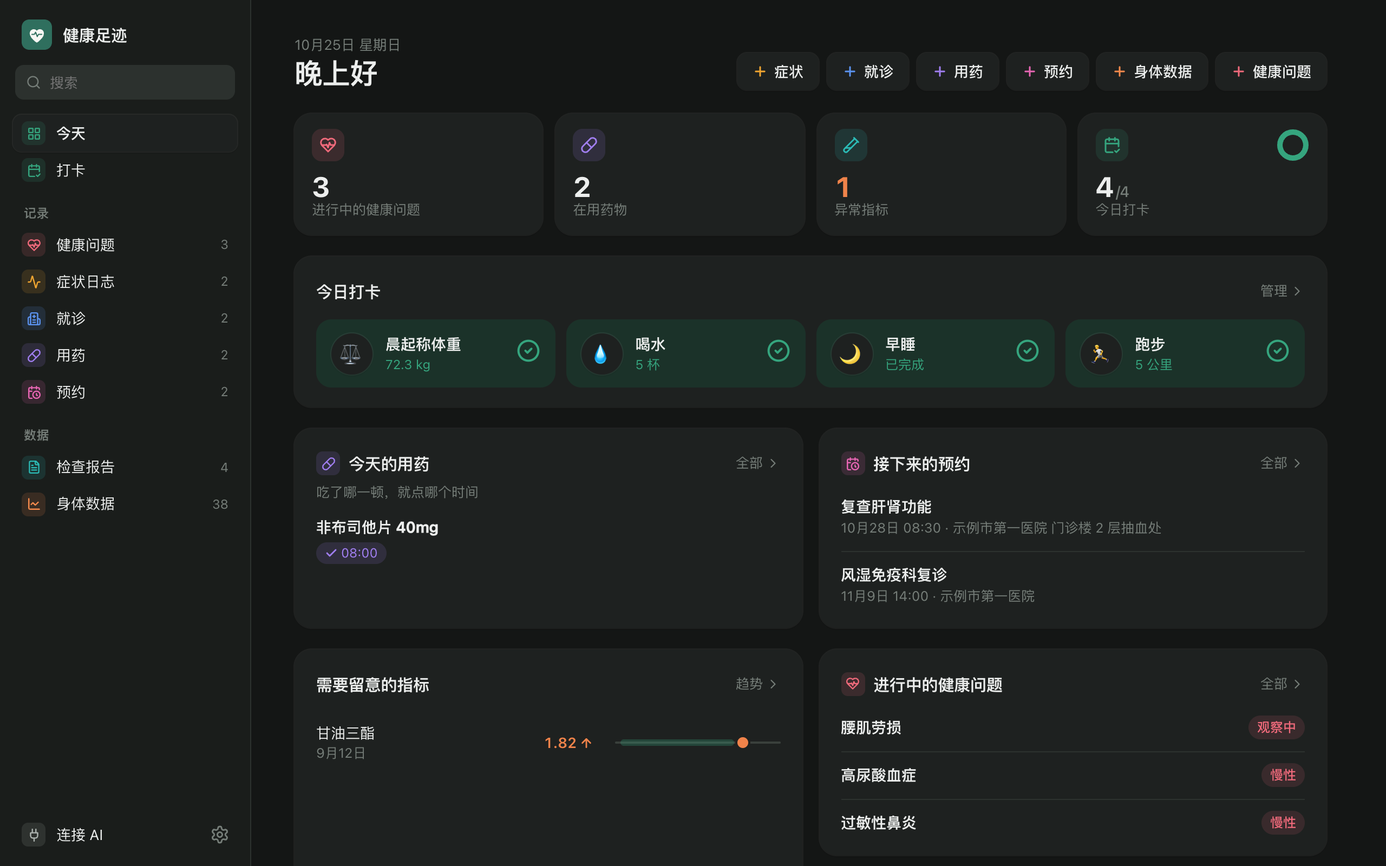
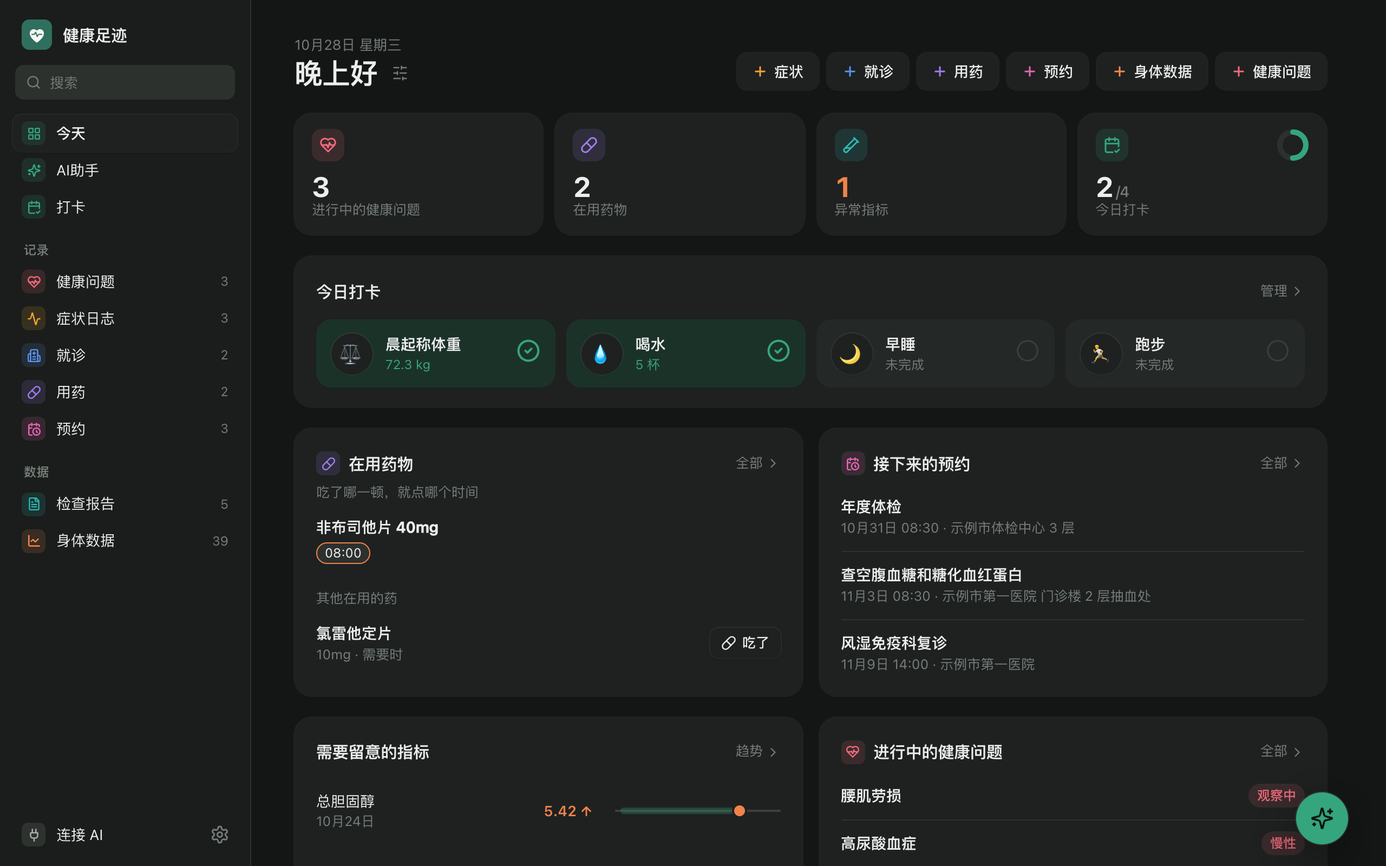
README：顶部放介绍视频，写清 App 里的 AI助手，截图换成现在的界面
- 顶部的截图换成约 100 秒的介绍视频（GitHub 上传的 user-attachments，中文旁白，虚构数据），今天页的截图挪到「记录」下面
- 副标题、「适合你吗」、「快速开始」的示例加上 App 里的 AI助手：拍照录化验单、说一句话就记好、问该查什么并记成预约；「数据从不离开你的 Mac」改成「数据存在你自己的 Mac 上」（接了 AI 之后原话不准确）
- 「接入 AI」先说两种方式，再分「AI助手」和「通过 MCP 接入」两节；AI助手原来的一大段拆成「能做什么」「哪些会直接写入」（表格）「接口、隐私和日志」，原有的规则都保留
- 工作方式图加上 AI助手 → 你填的接口
- 截图按现在的界面重拍（今天页、指标趋势、身体数据、打卡，浅色和深色），新加 AI助手的截图；都是临时数据目录里的虚构数据，AI 的回答来自本机的假接口
- 中英文两份同步

diff --git a/README.en.md b/README.en.md
@@ -9,7 +9,7 @@
 ### Your health records, kept on your own computer.
 
 **Medical history, lab reports, medications, body metrics and daily check-ins, all in one place.**<br>
-Let Claude or Codex enter and analyze them for you. Your data never leaves your Mac.
+Snap a photo or say a sentence and AI records it; Claude or Codex can help analyze too. Your data stays on your own Mac.
 
 [![Release](https://img.shields.io/github/v/release/chunbin1/health-trail?include_prereleases&label=release&color=111111)](https://github.com/chunbin1/health-trail/releases) [![CI](https://img.shields.io/github/actions/workflow/status/chunbin1/health-trail/ci.yml?label=CI&color=111111)](https://github.com/chunbin1/health-trail/actions/workflows/ci.yml) [![License](https://img.shields.io/badge/license-MIT-111111)](LICENSE)<br>
 ![macOS](https://img.shields.io/badge/macOS_13+-000000?logo=apple&logoColor=white) ![MCP](https://img.shields.io/badge/MCP-15_tools-111111) ![SQLite](https://img.shields.io/badge/SQLite-local-003B57?logo=sqlite&logoColor=white)
@@ -18,12 +18,9 @@ Let Claude or Codex enter and analyze them for you. Your data never leaves your 
 
 <br>
 
-<picture>
-  <source media="(prefers-color-scheme: dark)" srcset="docs/img/overview-dark.png">
-  <img src="docs/img/overview-light.png" width="900" alt="The Today page: active health issues, today's medications, today's check-ins, upcoming appointments and results to watch">
-</picture>
+https://github.com/user-attachments/assets/7d57d18b-8832-4bc0-9797-f5483d23beaa
 
-<sub>The screenshots show the Chinese interface with made-up sample data. The app can also be switched to English.</sub>
+<sub>A 100-second introduction, narrated in Chinese. The video and screenshots show the Chinese interface with made-up sample data; the app can also be switched to English.</sub>
 
 </div>
 
@@ -33,8 +30,9 @@ Let Claude or Codex enter and analyze them for you. Your data never leaves your 
 
 Lab reports sit in your photo library, medical records in a hospital app, you rely on memory for when you took your pills, and at a follow-up you can't recall what your last result was. Health Trail puts all of this in a local database and hands it to an AI you trust to help keep it in order:
 
-- **Snap a photo to log it**: send a screenshot of a lab report to Claude and it enters every item, flags what's high or low, and saves the original image as an attachment.
-- **Ask about trends any time**: "How has my uric acid changed over the last two years?" "Has my CRP come down?" The AI answers from your data, not from guesses.
+- **Snap a photo to log it**: send a photo of a lab report to AI assistant in the app (or to Claude) and it enters every item, flags what's high or low, and saves the original image as an attachment.
+- **Say it and it's recorded**: "Fasting blood sugar 6.4 this morning, a bit dizzy" becomes a blood sugar reading and a symptom. Type or speak; speech is recognized on your Mac.
+- **Ask, and let it arrange things**: "How has my uric acid changed over the last two years?" "My blood sugar is a bit high; which tests should I get?" The AI looks at your records before answering, not guessing; say the word and it turns the follow-up into an appointment.
 - **Reminders on time**: for medications, check-ins and follow-ups, your Mac shows a notification, and they can sync to the Calendar and Reminders apps on your iPhone.
 - **Data stays on your Mac**: one SQLite file plus an attachments folder, backed up to a place you choose.
 
@@ -53,14 +51,21 @@ For now it supports macOS 13 and later only, on both Apple silicon and Intel.
 **3 · Start using it**: say to the AI
 
 ```text
-Enter this lab report            (attach the screenshot)
+Enter this lab report            (attach a photo or screenshot)
+Fasting blood sugar 6.4 this morning, a bit dizzy
 I took my medication this morning
+Book a blood sugar test at the hospital for 8:30 on November 3
 Help me list the questions to ask the doctor at this follow-up
 ```
 
 ## What it does
 
 ### Records
+
+<picture>
+  <source media="(prefers-color-scheme: dark)" srcset="docs/img/overview-dark.png">
+  <img src="docs/img/overview-light.png" width="900" alt="The Today page: active health issues, medications in use, today's check-ins, upcoming appointments and results to watch">
+</picture>
 
 | Type | What it records |
 | :-- | :-- |
@@ -80,7 +85,7 @@ Reports, prescriptions and scans can be stored as attachments under the matching
 <td width="50%">
 <picture>
   <source media="(prefers-color-scheme: dark)" srcset="docs/img/trend-dark.png">
-  <img src="docs/img/trend-light.png" alt="Result trends: four uric acid results, the reference range and the trend line">
+  <img src="docs/img/trend-light.png" alt="Result trends: five uric acid results, the reference range and the trend line">
 </picture>
 </td>
 <td width="50%">
@@ -117,6 +122,49 @@ Pick a folder (iCloud Drive or an external drive is a good choice). Each backup 
 The interface can switch between Chinese and English; your data is always stored exactly as entered.
 
 ## Connect your AI
+
+There are two ways, both reading and writing the same records, and you can use both:
+
+- **[AI assistant](#ai-assistant) in the app**: uses an OpenAI-compatible service you fill in; chat, send photos or speak right in the window.
+- **[Through MCP](#through-mcp)**: lets Claude, Codex or another AI you already use read and write your records.
+
+### AI assistant
+
+<picture>
+  <source media="(prefers-color-scheme: dark)" srcset="docs/img/assistant-dark.png">
+  <img src="docs/img/assistant-light.png" width="900" alt="AI assistant: it looks up the blood sugar and symptoms on file before saying which tests to get, then turns the time you give into an appointment card">
+</picture>
+
+AI assistant in the sidebar lets you talk to an AI right in the app (Today has an entry too; once the service is filled in, a floating button at the lower right opens the same chat from any page). It uses the service you configure and looks things up in your records with the same tools as MCP.
+
+**What it can do**
+
+- **Answer about anything on file**: every result of a lab test over the years, say; it looks first, then answers.
+- **Record what you type, say or photograph**: a photo of a lab report or prescription, or a sentence like "fasting blood sugar 6.4 this morning, a bit dizzy", becomes records: lab reports, body metrics, symptoms, medications, check-ins and so on.
+- **Change records on file**: adding a reminder time to a medicine, say, becomes a Change card that shows the field before and after. Deleting a record or undoing a check-in is still done on the record itself.
+- **Arrange tests**: a suggested test or repeat test goes in the answer first, saying a doctor needs to confirm it; only when you ask it to pick the time does it become an appointment card, with a note that the time is the assistant's suggestion and nothing is booked at the hospital yet.
+- **Talk about your health**: it gives a diagnosis from the symptoms, lab results and reports on file and can suggest medicines to consider; every such answer says the result is for reference only and that you need to go to a hospital for a doctor to confirm it.
+
+**What gets written straight away**
+
+| Card | How it's saved |
+| :-- | :-- |
+| New records: symptoms, body metrics, lab reports, check-ins, appointments and so on | Automatic saving is on by default and writes them as soon as the reply arrives; you can switch to saving by hand from the left of the message box. An entry with a problem is not written automatically; you fix it and save it yourself |
+| A health issue it diagnoses (status Monitoring; the notes name the records it used and that a doctor must confirm it) | Not saved automatically; you read it and save it yourself. It only comes up when you ask what might be wrong, and a name already on file is not written again |
+| A medicine it suggests (status Planned; the notes say a doctor must confirm it and that it has not been started) | Not saved automatically; you save it yourself. A name already on file is not written again |
+| A change to a record already on file | Not saved automatically; nothing changes until you save it |
+
+**Service, privacy and the log**
+
+- The service must speak OpenAI-style Chat Completions and support tool calls (function calling); pictures also need a model that can see them. You set the address, key and model name at the top of Connect AI, or in AI assistant or in Settings. The key stays on this computer and is not included in backups.
+- What goes to the service: what you type or say and the pictures, the names of existing health issues, medications and check-ins, and whatever records it reads to answer. Speech uses the Mac's own dictation, so the audio is not uploaded.
+- Each conversation is kept in `chats.json` in the data folder; History in the assistant opens an earlier one.
+- Each answer adds an entry to `assistant.log` in the data folder, for tracking down problems and seeing where the tokens go: what you said, the tokens of each request, which tools it called and with what, the start of what each tool returned, the answer and the cards, and any error. Like `chats.json` it stays on this computer and is not included in backups; the system prompt is only counted, pictures are only named by type and size, and the key is never logged. View log, in Settings → AI assistant or under Change service in the assistant, shows the latest part at any time, newest first, or only the answers that went wrong.
+- Opening `serve` in a browser can type and send pictures; dictation is only in the Mac window.
+
+**What it writes down is no substitute for a doctor's diagnosis.**
+
+### Through MCP
 
 Health Trail connects to AI through [MCP](https://modelcontextprotocol.io): 15 tools (querying, entering records, importing lab reports, trends, check-ins, attachments and more), plus 5 analysis templates. The app's Connect AI page shows configurations with the current program path filled in, ready to copy.
 
@@ -172,14 +220,6 @@ Add a stdio MCP server: set the command to the program path above and the argume
 
 The AI only speaks from your data, and suggests seeing a doctor when something looks abnormal. **Its analysis is no substitute for a doctor's diagnosis.**
 
-### AI assistant
-
-When you don't want to open another AI, use AI assistant in the sidebar (Today has an entry too). Once the service is filled in, a floating button also sits at the lower right and opens the same chat from any page. You can ask about anything on file: it looks things up with the same tools as MCP, such as every result of a lab test over the years. You can also type, speak, or send a photo of a lab report or prescription so that what you want recorded becomes records — symptoms, medications, check-ins, lab reports and so on. To change a record already on file (adding a reminder time to a medicine, say), it puts together a Change card that shows the field before and after; nothing changes until you save it. Deleting a record or undoing a check-in is still done on the record itself. Asked what might be wrong, it gives a diagnosis from the symptoms, lab results and reports on file, and can suggest medicines to consider. Every such answer says the result is for reference only and that you need to go to a hospital for a doctor to confirm it. When you ask what might be wrong, that diagnosis is also drafted as a health issue with status Monitoring, and the notes name the records it used and that a doctor must confirm it. It is not saved automatically; you read it and save it yourself. Asking for a medicine or a recommendation does not save another health issue, and a name already on file is not written again. A suggested medicine is also listed as a medication with status Planned, and the notes say a doctor must confirm it and that it has not been started. A name already on file is not written again. That medication is not saved automatically; you save it yourself. A suggested test or repeat test goes in the answer first, saying a doctor needs to confirm it; only when you ask it to pick the time does it become an appointment card, with a note that the time is the assistant's suggestion and nothing is booked at the hospital yet. A change to a record already on file is not saved automatically either. Automatic saving is on for everything else: it is written into your records as soon as the reply arrives, and you can switch to saving by hand from the left of the message box. An entry that has a problem is not written automatically; you fix it and save it yourself.
-
-Speech uses the Mac's own dictation, so the audio is not uploaded. Text and pictures are sent to the service you configured, along with the names of existing health issues, medications and check-ins, and whatever records it reads to answer. The service must speak OpenAI-style Chat Completions and support tool calls (function calling); pictures also need a model that can see them. You set the address, key and model name at the top of Connect AI, or in AI assistant or in Settings. The key stays on this computer and is not included in backups. Each conversation is kept in `chats.json` in the data folder; History in the assistant opens an earlier one. Each answer adds an entry to `assistant.log` in the data folder, for tracking down problems and seeing where the tokens go: what you said, the tokens of each request, which tools it called and with what, the start of what each tool returned, the answer and the cards, and any error. Like `chats.json` it stays on this computer and is not included in backups; the system prompt is only counted, pictures are only named by type and size, and the key is never logged. View log, in Settings → AI assistant or under Change service in the assistant, shows the latest part at any time, newest first, or only the answers that went wrong. Opening `serve` in a browser can type and send pictures; dictation is only in the Mac window.
-
-**What it writes down is no substitute for a doctor's diagnosis.**
-
 ## How it works
 
 ```mermaid
@@ -190,6 +230,7 @@ flowchart LR
   app -. reminders .-> notify["System notifications"]
   app -. sync .-> ios["Calendar · Reminders<br>→ iPhone"]
   app -. backups .-> backup["Folder you choose<br>(zip)"]
+  app -. AI assistant .-> api["Service you fill in<br>(OpenAI-compatible)"]
 ```
 
 A single Go program provides the window (Wails v3, the system WebView + React), the local server (`127.0.0.1:8721`) and MCP. When an AI connects over stdio, it starts its own copy of the program each time, which reads and writes the same data folder as the window.

diff --git a/README.md b/README.md
@@ -9,7 +9,7 @@
 ### 你的健康档案，存在你自己的电脑上。
 
 **病历、化验单、用药、身体数据、每日打卡，一个地方记全。**<br>
-让 Claude、Codex 帮你录入和分析，数据从不离开你的 Mac。
+拍张照、说句话，AI 帮你记好；也能接 Claude、Codex 一起分析。数据存在你自己的 Mac 上。
 
 [![Release](https://img.shields.io/github/v/release/chunbin1/health-trail?include_prereleases&label=release&color=111111)](https://github.com/chunbin1/health-trail/releases) [![CI](https://img.shields.io/github/actions/workflow/status/chunbin1/health-trail/ci.yml?label=CI&color=111111)](https://github.com/chunbin1/health-trail/actions/workflows/ci.yml) [![License](https://img.shields.io/badge/license-MIT-111111)](LICENSE)<br>
 ![macOS](https://img.shields.io/badge/macOS_13+-000000?logo=apple&logoColor=white) ![MCP](https://img.shields.io/badge/MCP-15_tools-111111) ![SQLite](https://img.shields.io/badge/SQLite-local-003B57?logo=sqlite&logoColor=white)
@@ -18,12 +18,9 @@
 
 <br>
 
-<picture>
-  <source media="(prefers-color-scheme: dark)" srcset="docs/img/overview-dark.png">
-  <img src="docs/img/overview-light.png" width="900" alt="「今天」页：进行中的健康问题、今天的用药、今日打卡、接下来的预约和需要留意的指标">
-</picture>
+https://github.com/user-attachments/assets/7d57d18b-8832-4bc0-9797-f5483d23beaa
 
-<sub>截图里都是虚构的示例数据。</sub>
+<sub>约 100 秒的介绍视频（中文旁白）。视频和截图里都是虚构的示例数据。</sub>
 
 </div>
 
@@ -33,8 +30,9 @@
 
 化验单在相册里，病历在医院 App 里，药什么时候吃的靠记性，复诊时说不清上次的指标是多少。健康足迹把这些放进一个本地的数据库，再交给你信任的 AI 帮忙整理：
 
-- **拍照就能录**：把化验单截图发给 Claude，它逐项录进去，偏高偏低自动标出来，原图也存成附件。
-- **随时问趋势**：「我近两年的尿酸怎么变化的？」「CRP 降下来了吗？」AI 从你的数据里回答，不靠猜。
+- **拍照就能录**：在 App 的 AI助手里发一张化验单照片（或者发给 Claude），它逐项录进去，偏高偏低自动标出来，原图也存成附件。
+- **说一句话就记好**：「早上空腹血糖 6.4，有点头晕」，记成一条血糖、一条症状。打字或说话都行，语音在 Mac 本机识别。
+- **随时问，顺手安排**：「我近两年的尿酸怎么变化的？」「血糖有点高，要做哪些检查？」AI 先查你的档案再回答，不靠猜；你说一声，复查也帮你记成预约。
 - **到点提醒**：吃药、打卡、复诊，Mac 弹通知，也能同步到 iPhone 的「日历」和「提醒事项」。
 - **数据只在本机**：一个 SQLite 文件加一个附件目录，备份到你自己选的地方。
 
@@ -53,14 +51,21 @@
 **3 · 开始用**：对 AI 说
 
 ```text
-把这张化验单录进去            （附上截图）
+把这张化验单录进去            （附上照片或截图）
+今天早上空腹血糖 6.4，有点头晕
 今天早上吃过药了
+帮我约 11 月 3 日早上 8 点半去医院复查血糖
 帮我整理一下这次复诊要问医生的问题
 ```
 
 ## 能做什么
 
 ### 记录
+
+<picture>
+  <source media="(prefers-color-scheme: dark)" srcset="docs/img/overview-dark.png">
+  <img src="docs/img/overview-light.png" width="900" alt="「今天」页：进行中的健康问题、在用药物、今日打卡、接下来的预约和需要留意的指标">
+</picture>
 
 | 类型 | 记什么 |
 | :-- | :-- |
@@ -80,7 +85,7 @@
 <td width="50%">
 <picture>
   <source media="(prefers-color-scheme: dark)" srcset="docs/img/trend-dark.png">
-  <img src="docs/img/trend-light.png" alt="指标趋势：尿酸四次化验的结果、参考范围和变化曲线">
+  <img src="docs/img/trend-light.png" alt="指标趋势：尿酸五次化验的结果、参考范围和变化曲线">
 </picture>
 </td>
 <td width="50%">
@@ -117,6 +122,49 @@
 界面可以切换中英文；数据始终按原样保存。
 
 ## 接入 AI
+
+有两种方式，读写的是同一份档案，可以同时用：
+
+- **App 里的 [AI助手](#ai助手)**：接你自己填的 OpenAI 兼容接口，直接在窗口里对话、拍照、说话。
+- **[通过 MCP 接入](#通过-mcp-接入)**：让 Claude、Codex 等你已经在用的 AI 读写档案。
+
+### AI助手
+
+<picture>
+  <source media="(prefers-color-scheme: dark)" srcset="docs/img/assistant-dark.png">
+  <img src="docs/img/assistant-light.png" width="900" alt="AI助手：先查档案里的血糖和症状再回答该做哪些检查，然后按你说的时间整理成一张预约卡片">
+</picture>
+
+侧栏的「AI助手」直接在 App 里和 AI 对话（今天页也有入口；填好接口后，窗口右下角的悬浮球在任何一页都能打开同一段对话）。它接你自己填的接口，用和 MCP 同一套工具按需查档案。
+
+**能做什么**
+
+- **问档案里的任何记录**：比如某项化验这些年的全部结果，它先查再回答。
+- **打字、说话或发照片记录**：化验单、处方的照片，或者一句「早上空腹血糖 6.4，有点头晕」，整理成化验单、身体数据、症状、用药、打卡等记录。
+- **改已有的记录**：比如给一个药加上提醒时间，它整理成一张「修改」卡片，列出改之前和改之后。删除记录、撤销打卡还是在记录上自己操作。
+- **安排检查**：建议的检查和复查先写在回答里，写明要医生确认；你让它直接安排时间时，才整理成预约卡片，备注里写明是助手建议的时间、还没在医院挂号。
+- **问病情**：根据档案里的症状、化验和报告给出诊断，并推荐可以考虑的药；每次都写明结果仅供参考，需要去医院由医生确认。
+
+**哪些会直接写入**
+
+| 卡片 | 怎么保存 |
+| :-- | :-- |
+| 新的记录：症状、身体数据、化验单、打卡、预约等 | 自动保存默认开着，回复一到就写入；输入框左边可以换成手动保存。有问题的条目不会自动写入，你改完再保存 |
+| 它判断的健康问题（状态「观察中」，备注写明依据和需医生确认） | 不自动保存，你看过、点一下才写入；只在你问自己可能是什么病时才有，已有同名的不再写 |
+| 它推荐的药（状态「计划中」，备注写明需医生确认、还没开始吃） | 不自动保存，要点一下才写入；已有同名的药不再写 |
+| 对已有记录的修改 | 不自动保存，要点一下才改 |
+
+**接口、隐私和日志**
+
+- 接口要兼容 OpenAI 的 Chat Completions，并且支持工具调用（function calling；看图还需要对方支持图片）。地址、密钥和模型名在「连接 AI」页的最上面填，也可以在「AI助手」或「设置」里填。密钥只存在这台电脑上，不放进备份。
+- 发给接口的内容：你说的话和图片、已有健康问题、用药、打卡项的名称，以及它回答时查到的记录。语音用 Mac 自己的听写，声音不上传。
+- 每段对话记在数据目录的 `chats.json`，助手里点「历史」可以打开以前的对话。
+- 每次回答在数据目录的 `assistant.log` 里记一段，方便查问题和看 token 花在哪：你说的话、每次请求的 token、调用了哪些工具和参数、工具返回的开头一段、回答和整理出的卡片、出错信息。这些和 `chats.json` 一样只在这台电脑上，不进备份；系统提示只记字数，图片只记类型和大小，不记密钥。在「设置 → AI助手」或助手的「修改接口」里点「查看日志」可以随时看最近的部分，最近的在最前面，也可以只看出错的。
+- 浏览器里打开 `serve` 时可以打字和发图片，听写只在 Mac 窗口里。
+
+**整理出来的内容不能代替医生的诊断。**
+
+### 通过 MCP 接入
 
 健康足迹通过 [MCP](https://modelcontextprotocol.io) 接入 AI：15 个工具（查询、录入、化验单导入、趋势、打卡、附件等），加 5 个分析模板。App 的「连接 AI」页会显示带着当前程序路径的配置，可以直接复制。
 
@@ -172,14 +220,6 @@ codex mcp add health-trail -- "/Applications/健康足迹.app/Contents/MacOS/hea
 
 AI 只依据你的数据说话，遇到异常会建议你去看医生。**它的分析不能代替医生的诊断。**
 
-### AI助手
-
-不想打开另一个 AI 时，用侧栏的「AI助手」（今天页也有入口）。填好接口之后，窗口右下角还会出现一个悬浮球，在任何一个页面都能打开同一段对话。可以问档案里的任何记录：它用和 MCP 同一套工具按需去查，比如某项化验这些年的全部结果。也可以打字、说话，或发化验单、处方的照片，把要记下的内容整理成记录。要改已有的记录（比如给一个药加上提醒时间），它会整理成一张「修改」卡片，列出改之前和改之后，你点保存才会改。删除记录、撤销打卡还是在记录上自己操作。问病情时，它会根据档案里的症状、化验和报告给出诊断，并推荐可以考虑的药；每次都会写明结果仅供参考，需要去医院由医生确认。问自己可能是什么病时，给出的诊断会整理成一条状态为「观察中」的健康问题，备注里写明依据和需医生确认；这条不会自动保存，你看过、点一下才写入。问药、推荐药时不会再记一条健康问题，已经有同名的也不会再写。推荐的药会记成一条状态为「计划中」的用药，备注里写明需医生确认、还没开始吃；已有同名的药不会再写一条。这条用药不会自动保存，要点一下才写入。建议的检查和复查先写在回答里，写明要医生确认；你让它直接安排时间时，才整理成预约卡片，备注里写明是助手建议的时间、还没在医院挂号。对已有记录的修改也不会自动保存。自动保存默认开着，别的内容回复一到就写入档案，输入框左边可以换成手动保存。有问题的条目不会自动写入，还是你改完再保存。
-
-语音用 Mac 自己的听写，声音不上传。文字和图片会发给你填写的接口，同时带上已有健康问题、用药、打卡项的名称；回答时它查到的记录也会发过去。接口要兼容 OpenAI 的 Chat Completions，并且支持工具调用（function calling；看图还需要对方支持图片），地址、密钥和模型名在「连接 AI」页的最上面填，也可以在「AI助手」或「设置」里填，密钥只存在这台电脑上，不放进备份。每段对话记在数据目录的 `chats.json`，助手里点「历史」可以打开以前的对话。每次回答在数据目录的 `assistant.log` 里记一段，方便查问题和看 token 花在哪：你说的话、每次请求的 token、调用了哪些工具和参数、工具返回的开头一段、回答和整理出的卡片、出错信息。这些和 `chats.json` 一样只在这台电脑上，不进备份；系统提示只记字数，图片只记类型和大小，不记密钥。在「设置 → AI助手」或助手的「修改接口」里点「查看日志」可以随时看最近的部分，最近的在最前面，也可以只看出错的。浏览器里打开 `serve` 时可以打字和发图片，听写只在 Mac 窗口里。
-
-**整理出来的内容不能代替医生的诊断。**
-
 ## 工作方式
 
 ```mermaid
@@ -190,6 +230,7 @@ flowchart LR
   app -. 提醒 .-> notify["系统通知"]
   app -. 同步 .-> ios["日历 · 提醒事项<br>→ iPhone"]
   app -. 备份 .-> backup["你选的文件夹<br>（zip）"]
+  app -. AI助手 .-> api["你填的接口<br>（OpenAI 兼容）"]
 ```
 
 一个 Go 程序同时提供窗口（Wails v3，系统自带的 WebView + React）、本机服务（`127.0.0.1:8721`）和 MCP。AI 用 stdio 接入时，每次会启动一个程序副本，和窗口读写同一个数据目录。
